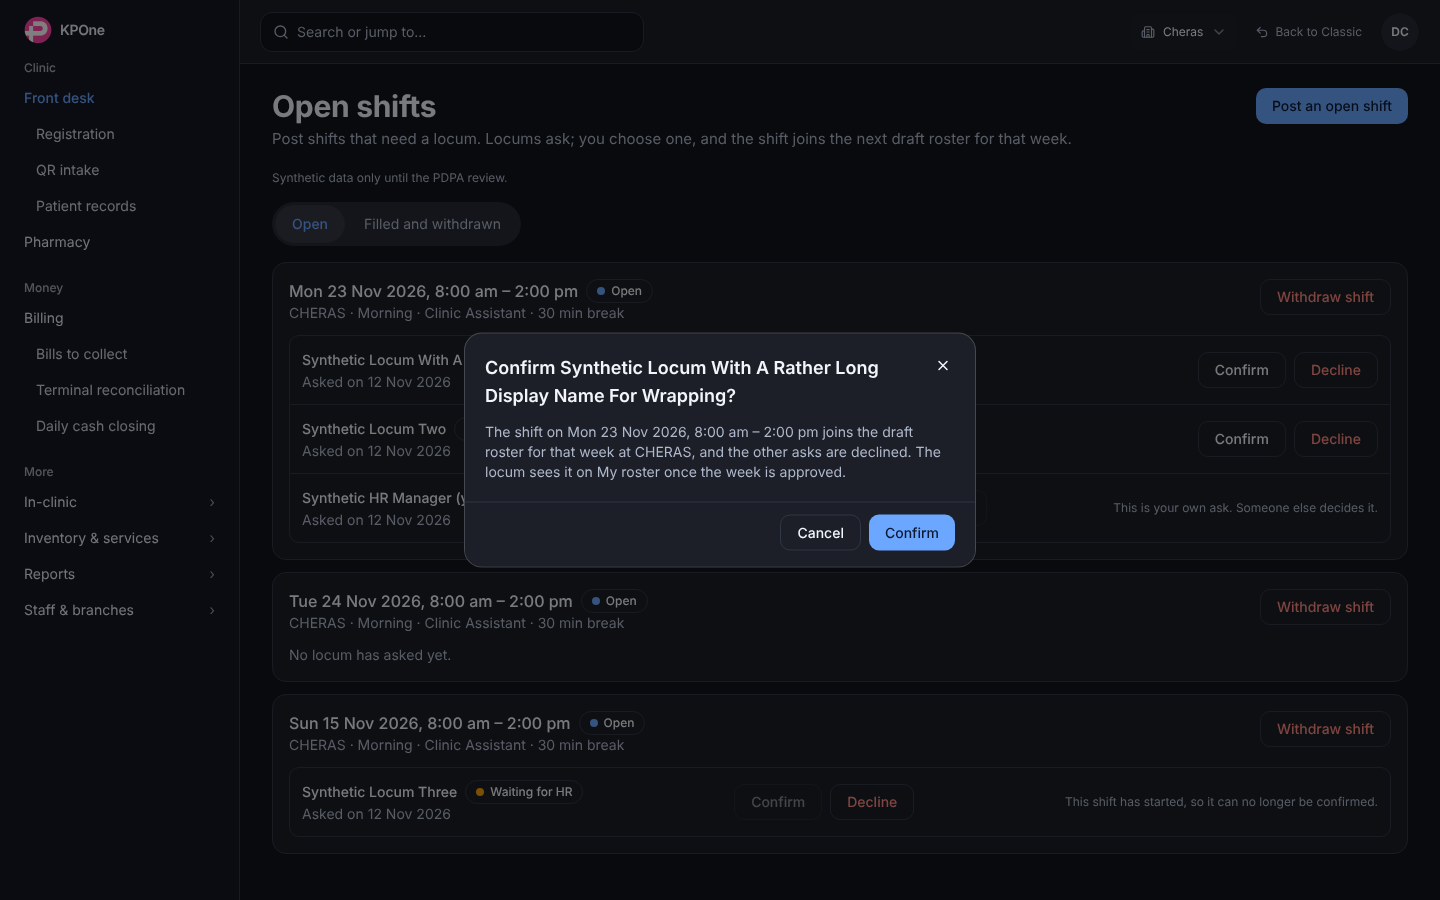
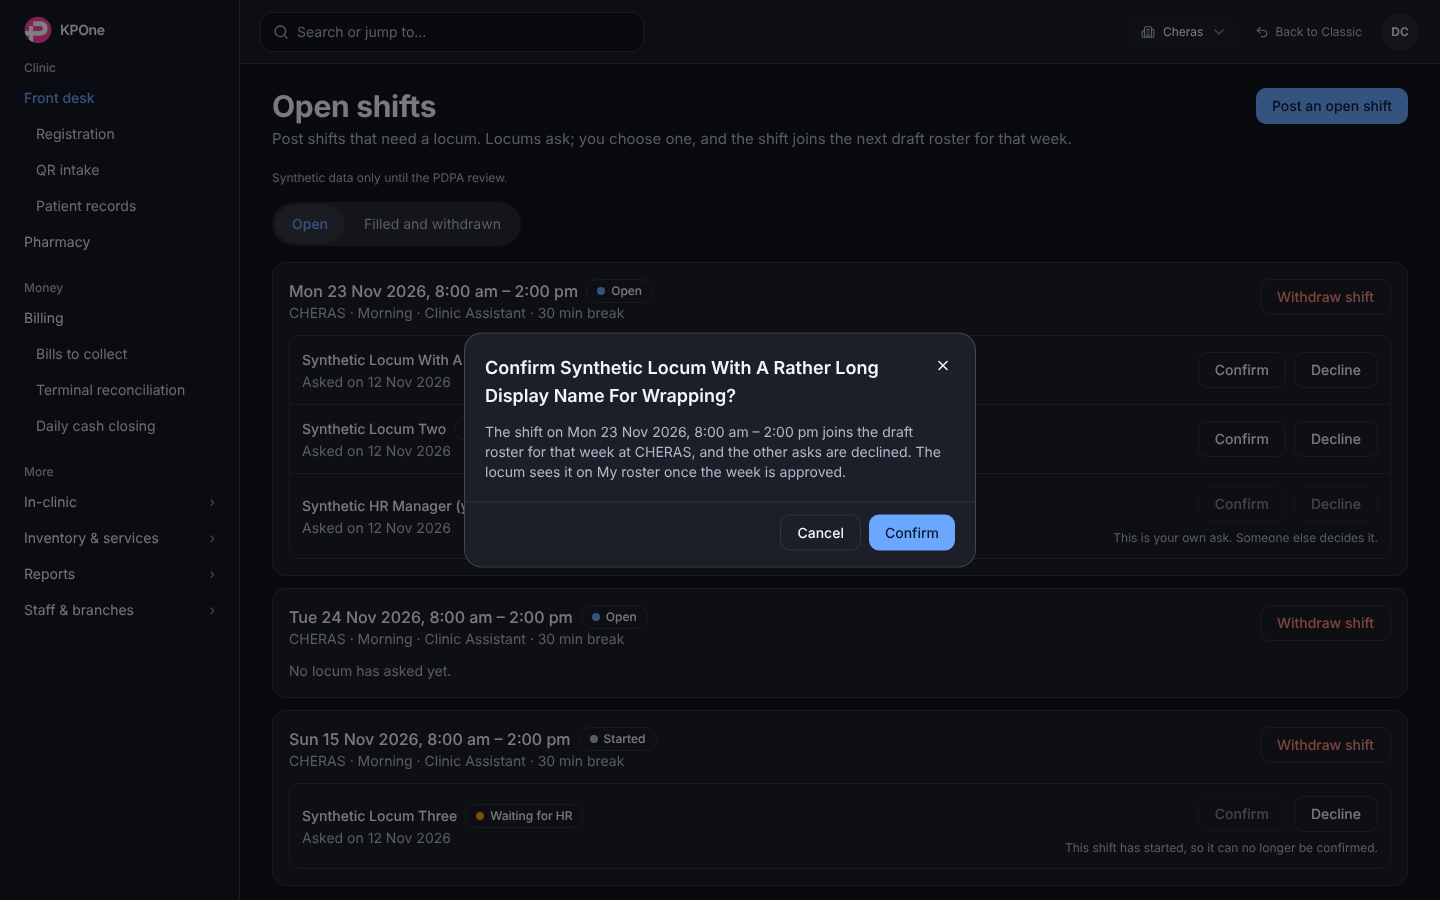
Evidence: V2 HR Open shifts shots after Daniel's look

diff --git a/docs/validation/v2-hr-open-shifts/README.md b/docs/validation/v2-hr-open-shifts/README.md
@@ -3,3 +3,5 @@
 Synthetic data only, `.test` account, stubbed props; nothing is posted. Shots at 1440 and 390 px, light and dark, 11 states: a locum's `available`, `availableEmpty`, `notLinked` and `mine`; a manager's `open` (several asks, an own ask, a started shift), `closed` (Needs posting again), `openEmpty`; and the dialogs `post`, `confirm`, `decline` (reason empty, red) and `withdraw` (red). No horizontal scroll and no external request.
 
 Classic compare: Classic Open shifts built from main and from the branch, same props, 44 states (the same eleven at 390 and 1440, light and dark), 0 differing pixels.
+
+After Daniel's look: Decline on each ask row is a plain outline button (red stays for Withdraw shift and the filled Decline in the dialog); a started shift shows a neutral "Started" chip; Confirm and Decline stay right-aligned with the reason sentence below them. The grey "SUNGAI BESI" chip in the first post shot was hover left over from the capture; the retake moves the pointer away and shows none. All V2 shots retaken. Classic compare unchanged (PR #889).
